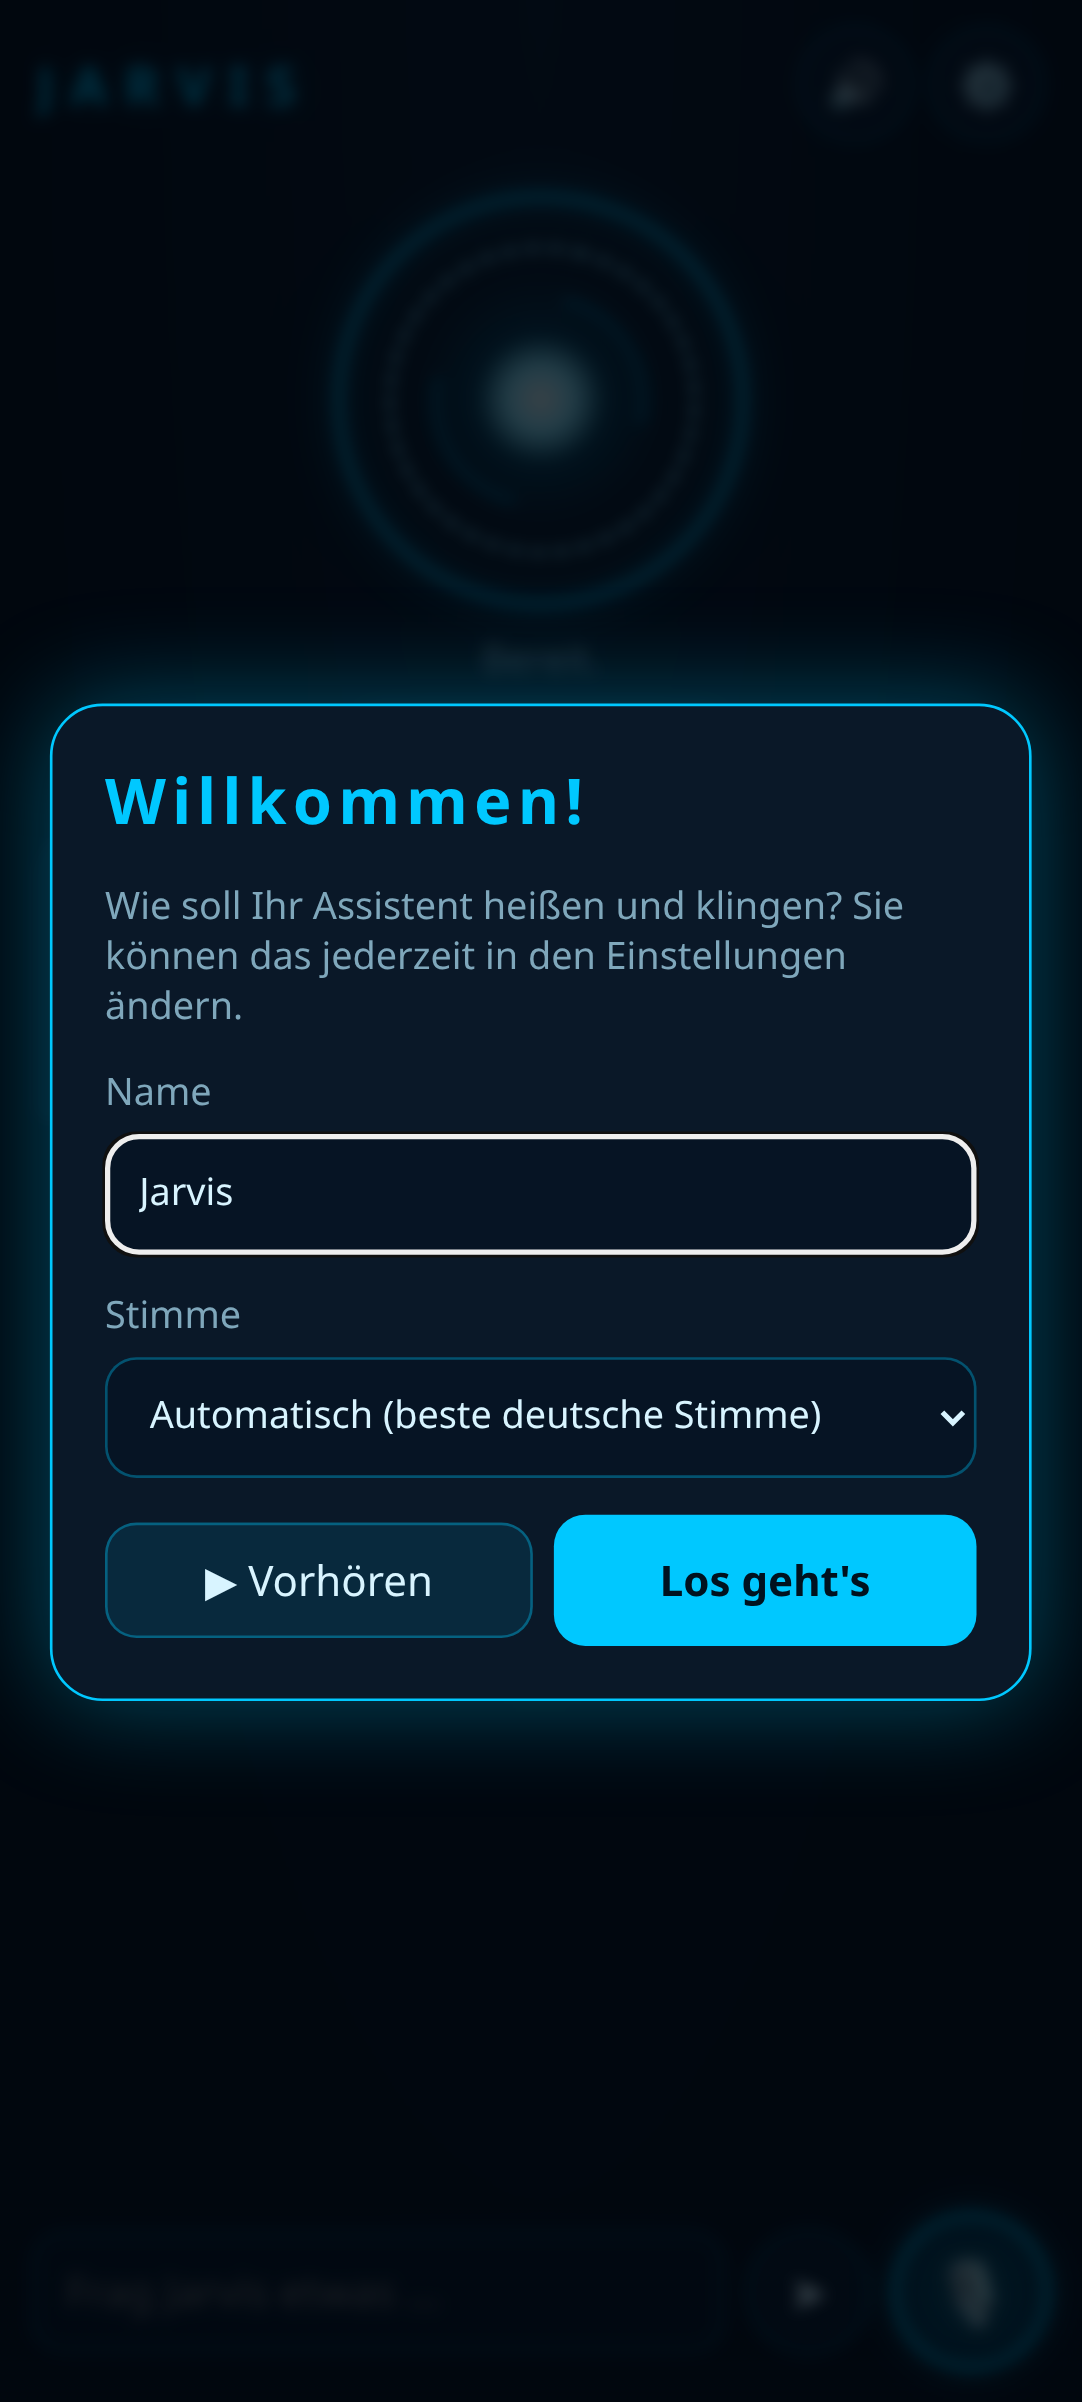
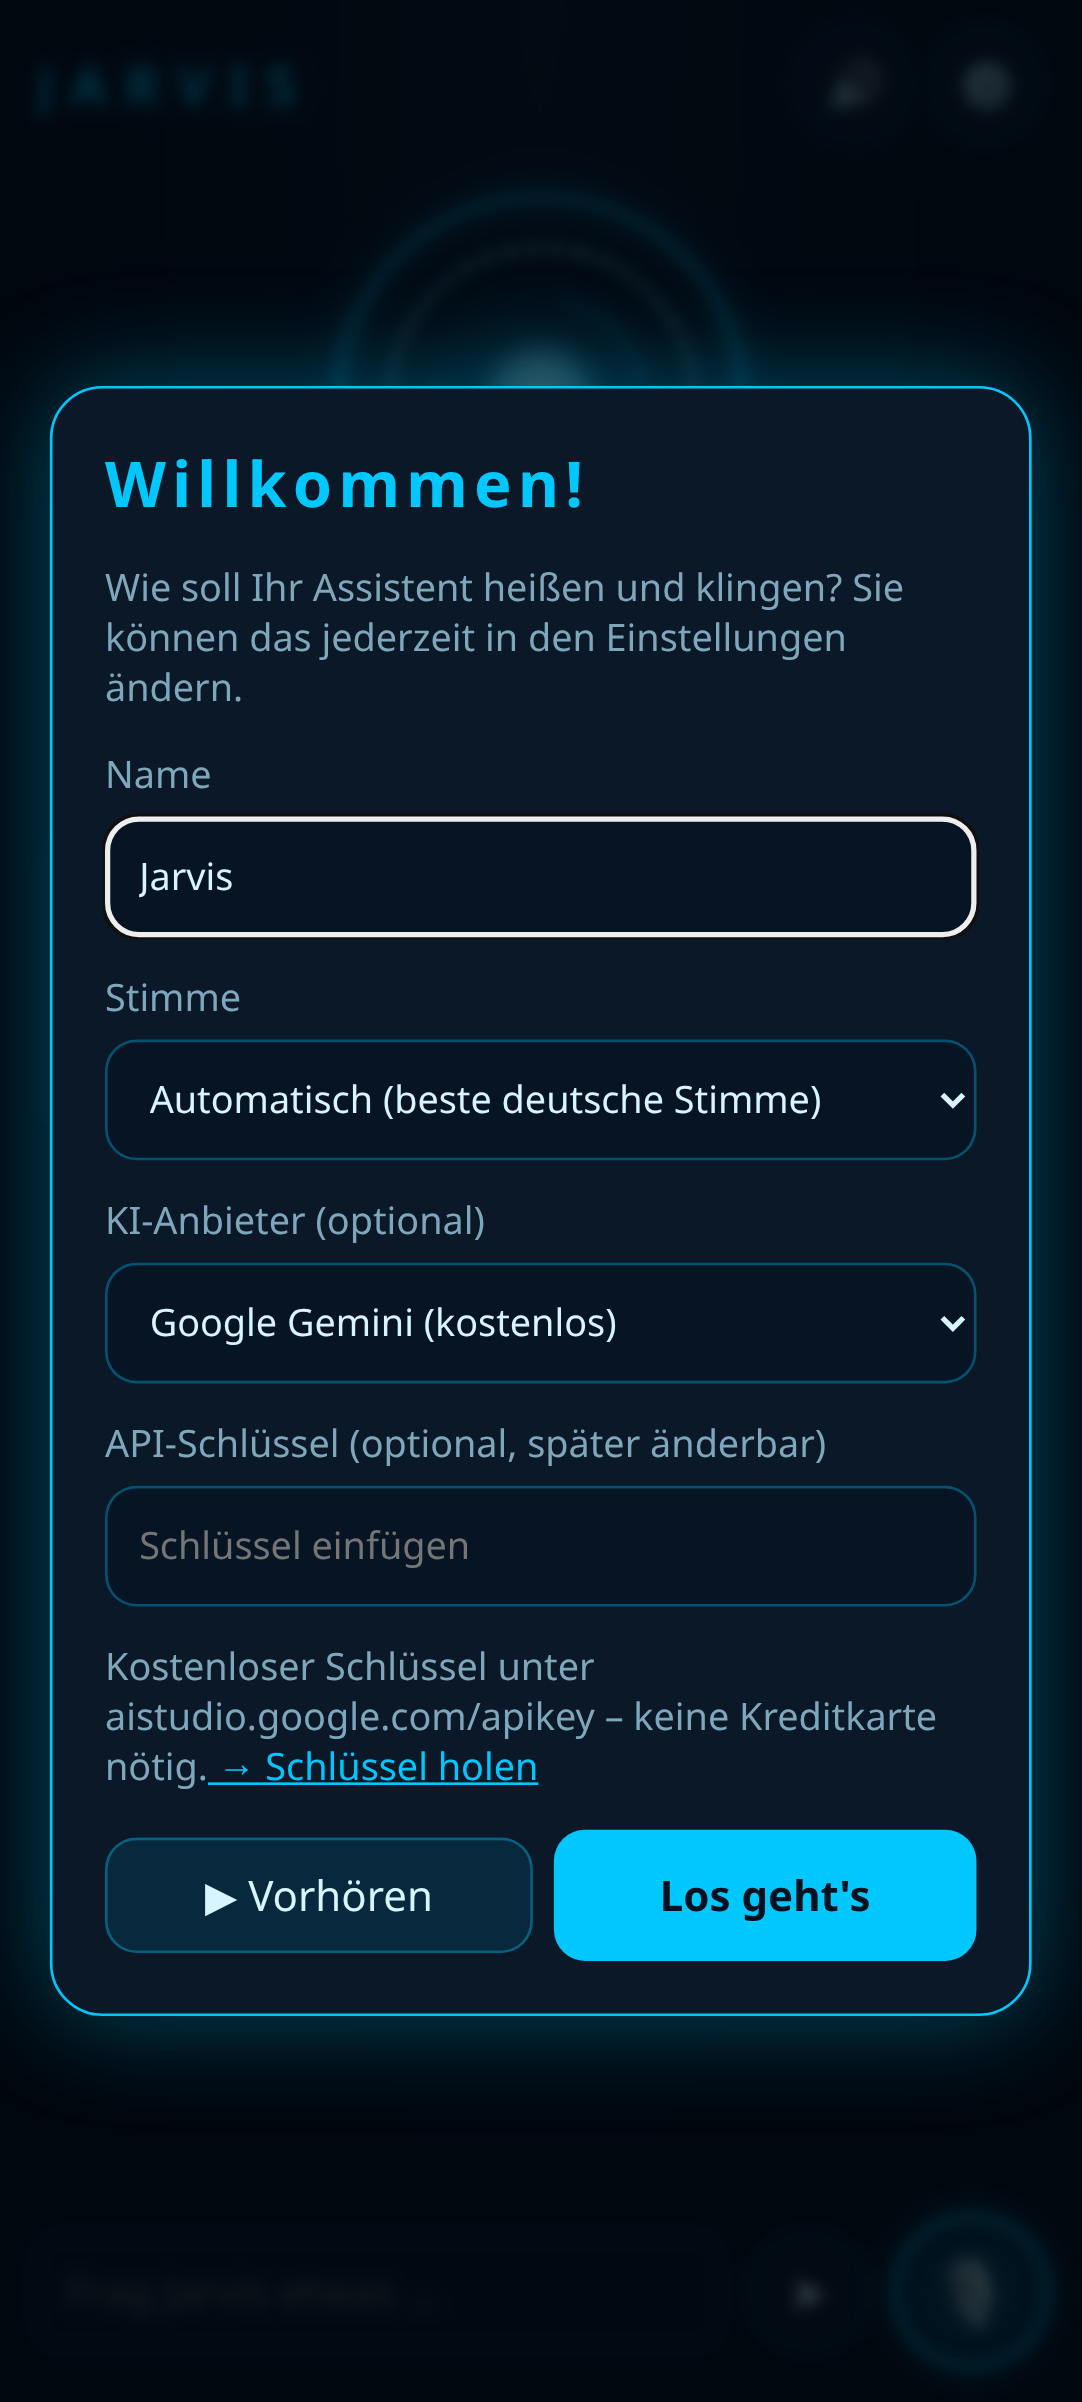
Google Gemini als KI-Anbieter (OpenAI-kompatibler Endpunkt), Schlüssel-Hinweise im Onboarding, SW v2

Changed region(s): [[0.0, 0.1249, 1.0, 0.8743], [0.5795, 0.2186, 0.7625, 0.281], [0.8845, 0.3435, 0.915, 0.3747]]

diff --git a/js/core/settings.js b/js/core/settings.js
@@ -6,28 +6,40 @@ export const PROVIDERS = Object.freeze({
     baseUrl: 'https://api.x.ai/v1',
     defaultModel: 'grok-4.7',
     models: ['grok-4.7', 'grok-4.6', 'grok-4.5'],
-    keyUrl: 'https://console.x.ai'
+    keyUrl: 'https://console.x.ai',
+    keyHint: 'Schlüssel unter console.x.ai → API Keys (Guthaben nötig).'
   },
   openai: {
     label: 'OpenAI',
     baseUrl: 'https://api.openai.com/v1',
     defaultModel: 'gpt-6-luna',
     models: ['gpt-6-luna', 'gpt-6.1-sol', 'gpt-6-astra'],
-    keyUrl: 'https://platform.openai.com/api-keys'
+    keyUrl: 'https://platform.openai.com/api-keys',
+    keyHint: 'Schlüssel unter platform.openai.com/api-keys (Guthaben nötig).'
+  },
+  gemini: {
+    label: 'Google Gemini',
+    // OpenAI-kompatibler Endpunkt von Google (erlaubt Browser-Aufrufe/CORS)
+    baseUrl: 'https://generativelanguage.googleapis.com/v1beta/openai',
+    defaultModel: 'gemini-3.8-flash',
+    models: ['gemini-3.8-flash', 'gemini-2.5-flash', 'gemini-2.5-flash-lite'],
+    keyUrl: 'https://aistudio.google.com/apikey',
+    keyHint: 'Kostenloser Schlüssel unter aistudio.google.com/apikey – keine Kreditkarte nötig.'
   },
   custom: {
     label: 'Eigene URL',
     baseUrl: '',
     defaultModel: '',
     models: [],
-    keyUrl: ''
+    keyUrl: '',
+    keyHint: 'Basis-URL bis einschließlich /v1 eintragen. Der Server muss CORS erlauben.'
   }
 });
 
 export const DEFAULT_SETTINGS = Object.freeze({
   provider: 'xai',
-  apiKeys: { xai: '', openai: '', custom: '' },
-  models: { xai: '', openai: '', custom: '' },
+  apiKeys: { xai: '', openai: '', gemini: '', custom: '' },
+  models: { xai: '', openai: '', gemini: '', custom: '' },
   customBaseUrl: '',
   speak: true,
   wakeWord: false

diff --git a/js/app.js b/js/app.js
@@ -2,7 +2,7 @@
 // und Oberfläche (js/ui). Für eine native App werden später nur die
 // Adapter und die UI ersetzt – der Kern bleibt gleich.
 import { createStore } from './core/storage.js';
-import { loadSettings, saveSettings } from './core/settings.js';
+import { loadSettings, saveSettings, PROVIDERS } from './core/settings.js';
 import { loadPersona, savePersona, sortVoices, previewSentence, sanitizeName } from './core/persona.js';
 import { createTimerManager } from './core/timers.js';
 import { createAssistant } from './core/assistant.js';
@@ -195,12 +195,21 @@ async function onboarding() {
   const fillVoices = async () => view.fillVoiceSelect($('#ob-voice'), sortVoices(await tts.listVoices()), persona.voiceId);
   fillVoices();
   tts.onVoicesChanged(fillVoices);
+  const obProvider = $('#ob-provider');
+  obProvider.value = settings.apiKeys[settings.provider] ? settings.provider : 'gemini';
+  const showHint = () => view.renderKeyHint($('#ob-key-hint'), PROVIDERS[obProvider.value]);
+  obProvider.addEventListener('change', showHint);
+  showHint();
   $('#ob-preview').onclick = () => {
     const p = { ...persona, name: sanitizeName($('#ob-name').value), voiceId: $('#ob-voice').value };
     tts.speak(previewSentence(p.name), p);
   };
   dlg.addEventListener('close', () => {
     applyPersona(savePersona(store, { name: $('#ob-name').value, voiceId: $('#ob-voice').value, onboarded: true }));
+    const key = $('#ob-apikey').value.trim();
+    if (key) {
+      settings = saveSettings(store, { provider: obProvider.value, apiKeys: { ...settings.apiKeys, [obProvider.value]: key } });
+    }
     say(greet());
   }, { once: true });
   dlg.showModal();

diff --git a/index.html b/index.html
@@ -60,6 +60,7 @@
           <select id="set-provider">
             <option value="xai">xAI (Grok)</option>
             <option value="openai">OpenAI</option>
+            <option value="gemini">Google Gemini (kostenlos)</option>
             <option value="custom">Eigene OpenAI-kompatible URL</option>
           </select>
         </label>
@@ -79,6 +80,7 @@
           </span>
           <datalist id="model-list"></datalist>
         </label>
+        <p id="key-hint" class="hint"></p>
         <p class="hint">🔒 Der Schlüssel wird nur auf diesem Gerät gespeichert (localStorage) und direkt an den gewählten Anbieter gesendet.</p>
         <button id="btn-test" type="button" class="btn">Verbindung testen</button>
         <p id="test-result" class="hint"></p>
@@ -128,6 +130,17 @@
       <label>Stimme
         <select id="ob-voice"><option value="">Automatisch (beste deutsche Stimme)</option></select>
       </label>
+      <label>KI-Anbieter (optional)
+        <select id="ob-provider">
+          <option value="gemini">Google Gemini (kostenlos)</option>
+          <option value="xai">xAI (Grok)</option>
+          <option value="openai">OpenAI</option>
+        </select>
+      </label>
+      <label>API-Schlüssel (optional, später änderbar)
+        <input id="ob-apikey" type="password" placeholder="Schlüssel einfügen" spellcheck="false">
+      </label>
+      <p id="ob-key-hint" class="hint"></p>
       <div class="row">
         <button id="ob-preview" type="button" class="btn">▶ Vorhören</button>
         <button id="ob-done" type="submit" class="btn primary">Los geht's</button>

diff --git a/js/core/ai.js b/js/core/ai.js
@@ -30,6 +30,7 @@ async function request(cfg, path, { method = 'GET', body, fetchFn = globalThis.f
   let data = null;
   try { data = await res.json(); } catch { /* keine JSON-Antwort */ }
   if (!res.ok) {
+    if (Array.isArray(data)) data = data[0]; // Gemini liefert Fehler teils als Liste
     const detail = data?.error?.message || data?.error || data?.message || res.statusText;
     const hint = res.status === 401 || res.status === 403 ? ' (API-Schlüssel ungültig?)'
       : res.status === 404 ? ' (Modellname oder URL falsch?)'
@@ -61,5 +62,7 @@ export async function askAI(cfg, systemPrompt, history, opts = {}) {
 /** Listet verfügbare Modelle (GET /models). */
 export async function listModels(cfg, opts = {}) {
   const data = await request(cfg, '/models', opts);
-  return (data?.data || []).map((m) => m.id).filter(Boolean).sort();
+  // Gemini liefert IDs als "models/gemini-…" – Präfix entfernen
+  const ids = (data?.data || []).map((m) => String(m.id || '').replace(/^models\//, '')).filter(Boolean);
+  return [...new Set(ids)].sort();
 }

diff --git a/js/ui/settings-view.js b/js/ui/settings-view.js
@@ -1,5 +1,5 @@
 // Einstellungsseite: Formular befüllen, auslesen, Buttons verdrahten.
-import { $, fillVoiceSelect, toast } from './view.js';
+import { $, fillVoiceSelect, toast, renderKeyHint } from './view.js';
 import { PROVIDERS, loadSettings, saveSettings, resolveProvider } from '../core/settings.js';
 import { loadPersona, savePersona, sortVoices, previewSentence, sanitizeName } from '../core/persona.js';
 import { askAI, listModels } from '../core/ai.js';
@@ -34,6 +34,7 @@ export function createSettingsView({ store, tts, onSaved, onClearChat }) {
     f.model.placeholder = p.defaultModel || 'Modellname';
     f.modelList.replaceChildren(...p.models.map((m) => new Option(m, m)));
     f.testResult.textContent = '';
+    renderKeyHint($('#key-hint'), p);
   }
 
   async function refreshVoices() {

diff --git a/js/ui/view.js b/js/ui/view.js
@@ -89,6 +89,21 @@ export function toast(text, ms = 3500) {
   setTimeout(() => t.remove(), ms);
 }
 
+/** Zeigt den Hinweis, wo es den Schlüssel gibt (mit Link). */
+export function renderKeyHint(el, provider) {
+  el.replaceChildren();
+  if (!provider) return;
+  el.append(document.createTextNode(provider.keyHint || ''));
+  if (provider.keyUrl) {
+    const a = document.createElement('a');
+    a.href = provider.keyUrl;
+    a.target = '_blank';
+    a.rel = 'noopener';
+    a.textContent = ' → Schlüssel holen';
+    el.append(a);
+  }
+}
+
 /** Füllt ein <select> mit Stimmen (deutsche zuerst). */
 export function fillVoiceSelect(select, voices, selectedId) {
   const auto = select.options[0];

diff --git a/css/style.css b/css/style.css
@@ -143,3 +143,4 @@ output { color: var(--text); }
 
 /* Toast */
 .toast { position: fixed; left: 50%; bottom: 100px; transform: translateX(-50%); background: var(--bg2); border: 1px solid var(--cyan); border-radius: 12px; padding: 10px 16px; z-index: 50; box-shadow: 0 0 20px var(--cyan-soft); max-width: 90vw; text-align: center; }
+.hint a { color: var(--cyan); }

diff --git a/sw.js b/sw.js
@@ -1,6 +1,6 @@
 // Service Worker: speichert die App-Dateien, damit Jarvis schnell startet
 // und installierbar ist. Bei Änderungen an den Dateien VERSION erhöhen!
-const VERSION = 'jarvis-v1';
+const VERSION = 'jarvis-v2';
 const APP_SHELL = [
   './',
   './index.html',

diff --git a/tools/browser_test.py b/tools/browser_test.py
@@ -40,11 +40,21 @@ with sync_playwright() as p:
         route.fulfill(status=200, content_type="application/json", headers={"access-control-allow-origin": "*"},
                       body=json.dumps({"choices": [{"message": {"content": "Selbstverständlich, Sir. Hier ist ein Witz."}}]}))
     page.route("https://api.x.ai/**", fake_api)
+    gem = {}
+    def fake_gemini(route):
+        gem["url"] = route.request.url
+        gem["body"] = json.loads(route.request.post_data or "{}")
+        gem["auth"] = route.request.headers.get("authorization")
+        route.fulfill(status=200, content_type="application/json", headers={"access-control-allow-origin": "*"},
+                      body=json.dumps({"choices": [{"message": {"content": "Gemini meldet sich zum Dienst."}}]}))
+    page.route("https://generativelanguage.googleapis.com/**", fake_gemini)
 
     # 1) Erster Start → Onboarding
     page.goto(URL)
     page.wait_for_load_state("networkidle")
     check("Onboarding-Dialog beim ersten Start", page.is_visible("#onboarding"))
+    check("Onboarding: Gemini vorausgewählt + Schlüssel-Link", page.input_value("#ob-provider") == "gemini"
+          and page.get_attribute("#ob-key-hint a", "href") == "https://aistudio.google.com/apikey")
     page.screenshot(path=str(SHOTS / "onboarding.png"))
     page.fill("#ob-name", "Jarvis")
     page.click("#ob-done")
@@ -84,6 +94,9 @@ with sync_playwright() as p:
     page.screenshot(path=str(SHOTS / "settings-bottom.png"))
     page.select_option("#set-provider", "openai")
     check("OpenAI-Modell-Platzhalter", page.get_attribute("#set-model", "placeholder") == "gpt-6-luna")
+    page.select_option("#set-provider", "gemini")
+    check("Gemini: Modell-Platzhalter + Hinweis", page.get_attribute("#set-model", "placeholder") == "gemini-3.8-flash"
+          and "keine Kreditkarte" in page.inner_text("#key-hint"))
     page.select_option("#set-provider", "custom")
     check("Basis-URL-Feld bei eigener URL", page.is_visible("#row-baseurl"))
     page.select_option("#set-provider", "xai")
@@ -115,6 +128,20 @@ with sync_playwright() as p:
     check("KI-Antwort angezeigt", "Witz" in reply)
     check("KI: Name+Datum im System-Prompt", "Du bist Friday" in sent["body"]["messages"][0]["content"] and "Aktuelles Datum" in sent["body"]["messages"][0]["content"])
     check("KI: Modell grok-4.7 + Bearer", sent["body"]["model"] == "grok-4.7" and sent["auth"] == "Bearer xai-test-123")
+
+    # 4b) Gemini als Anbieter (gemockt)
+    page.click("#btn-settings"); page.wait_for_timeout(300)
+    page.select_option("#set-provider", "gemini")
+    page.fill("#set-apikey", "fake-gemini-key")
+    page.click("#settings-form button[type=submit]"); page.wait_for_timeout(300)
+    check("Gemini-Antwort angezeigt", "Gemini meldet sich" in ask("Was ist ein schwarzes Loch?", 1200))
+    check("Gemini: Endpunkt, Modell, Bearer", gem.get("url") == "https://generativelanguage.googleapis.com/v1beta/openai/chat/completions"
+          and gem["body"]["model"] == "gemini-3.8-flash" and gem["auth"] == "Bearer fake-gemini-key"
+          and "Du bist Friday" in gem["body"]["messages"][0]["content"])
+    page.click("#btn-settings"); page.wait_for_timeout(300)
+    page.select_option("#set-provider", "xai")
+    check("xAI-Schlüssel nach Anbieterwechsel noch da", page.input_value("#set-apikey") == "xai-test-123")
+    page.click("#btn-back"); page.wait_for_timeout(200)
 
     # 5) Wake-Word-Logik im Browser (Kern-Module, simuliertes Transkript)
     wk = page.evaluate("""async () => {

diff --git a/README.md b/README.md
@@ -13,7 +13,7 @@ Optimiert für das **Samsung Galaxy A55 5G mit Chrome**.
 | 🔊 Sprachausgabe | Antworten werden vorgelesen; Lautsprecher-Knopf oben schaltet stumm |
 | 👂 Wake-Word | „Hey Jarvis …“ – hört dauerhaft zu, **solange die App offen ist** |
 | 🧑 Name & Stimme | Name frei wählbar (z. B. „Friday“) – gilt auch als Wake-Word; Stimme, Tempo, Tonhöhe einstellbar, mit „Vorhören“ |
-| 🧠 KI-Gehirn | xAI (Grok), OpenAI oder eine eigene OpenAI-kompatible Adresse – mit Ihrem eigenen API-Schlüssel |
+| 🧠 KI-Gehirn | Google Gemini (kostenlos), xAI (Grok), OpenAI oder eine eigene OpenAI-kompatible Adresse – mit Ihrem eigenen API-Schlüssel |
 | ⏰ Ohne KI | Uhrzeit, Datum, Timer, Notizen (funktionieren auch ohne API-Schlüssel) |
 
 ### Beispiel-Sätze (funktionieren ohne KI)
@@ -44,7 +44,7 @@ Das Mikrofon funktioniert im Browser **nur über HTTPS** – GitHub Pages liefer
    `https://IHR-NAME.github.io/jarvis/` – diese im Handy öffnen.
 
 **Updates:** Geänderte Dateien einfach erneut hochladen. Damit das Handy die neue Version sicher lädt,
-in `sw.js` die Zeile `const VERSION = 'jarvis-v1';` hochzählen (`jarvis-v2` …).
+in `sw.js` die Zeile `const VERSION = 'jarvis-v2';` hochzählen (`jarvis-v3` …).
 
 *Alternativen:* Netlify, Cloudflare Pages oder Vercel funktionieren genauso (Ordner hochladen, fertig).
 
@@ -68,9 +68,19 @@ in `sw.js` die Zeile `const VERSION = 'jarvis-v1';` hochzählen (`jarvis-v2` …
 ## 🔑 API-Schlüssel besorgen
 
 Ohne Schlüssel funktionieren nur die lokalen Funktionen (Uhrzeit, Datum, Timer, Notizen).
-Die KI-Anbieter berechnen pro Nutzung (meist wenige Cent pro Tag bei normaler Nutzung). Guthaben/Zahlungsmethode ist nötig.
+xAI und OpenAI berechnen pro Nutzung (meist wenige Cent pro Tag) und brauchen Guthaben. **Google Gemini hat einen kostenlosen Tarif.**
 
-**xAI (Grok) – voreingestellt**
+**Google Gemini – kostenlos, ideal zum Einstieg**
+1. <https://aistudio.google.com/apikey> öffnen und mit dem Google-Konto anmelden.
+2. **„API-Schlüssel erstellen“** (Create API key) antippen – **keine Kreditkarte nötig**.
+3. Schlüssel kopieren (beginnt meist mit `AIza…`).
+4. In Jarvis: ⚙ → Anbieter **Google Gemini** → Schlüssel einfügen → **Speichern**
+   (oder direkt im Willkommens-Dialog beim ersten Start). Modell leer lassen = `gemini-3.8-flash`.
+5. Hinweis: Im kostenlosen Tarif gelten Anfrage-Limits pro Minute/Tag, und Google darf die Eingaben zur
+   Verbesserung seiner Produkte nutzen. Für Vertrauliches lieber einen bezahlten Tarif verwenden.
+   Bitte die aktuellen Nutzungsbedingungen für Nutzer in der EU in AI Studio prüfen.
+
+**xAI (Grok)**
 1. <https://console.x.ai> öffnen und anmelden.
 2. Guthaben aufladen (Billing), dann **API Keys → Create API Key**.
 3. Schlüssel kopieren (beginnt mit `xai-…`).
@@ -111,6 +121,7 @@ Bei den Anbietern ein **Ausgabenlimit** setzen.
 Browser-Aufrufe direkt an die APIs wurden geprüft (Preflight-Anfrage mit fremder Herkunft):
 - **xAI** `api.x.ai`: erlaubt (`Access-Control-Allow-Origin: *`) ✅
 - **OpenAI** `api.openai.com`: erlaubt (spiegelt die Herkunft, erlaubt `authorization`) ✅
+- **Google Gemini** `generativelanguage.googleapis.com/v1beta/openai` (OpenAI-kompatibel): erlaubt (spiegelt die Herkunft, erlaubt `authorization`) ✅
 - **Eigene URL:** hängt vom Server ab. Meldung „Netzwerkfehler oder vom Anbieter blockiert (CORS)“ → am Server CORS aktivieren.
 
 ---
